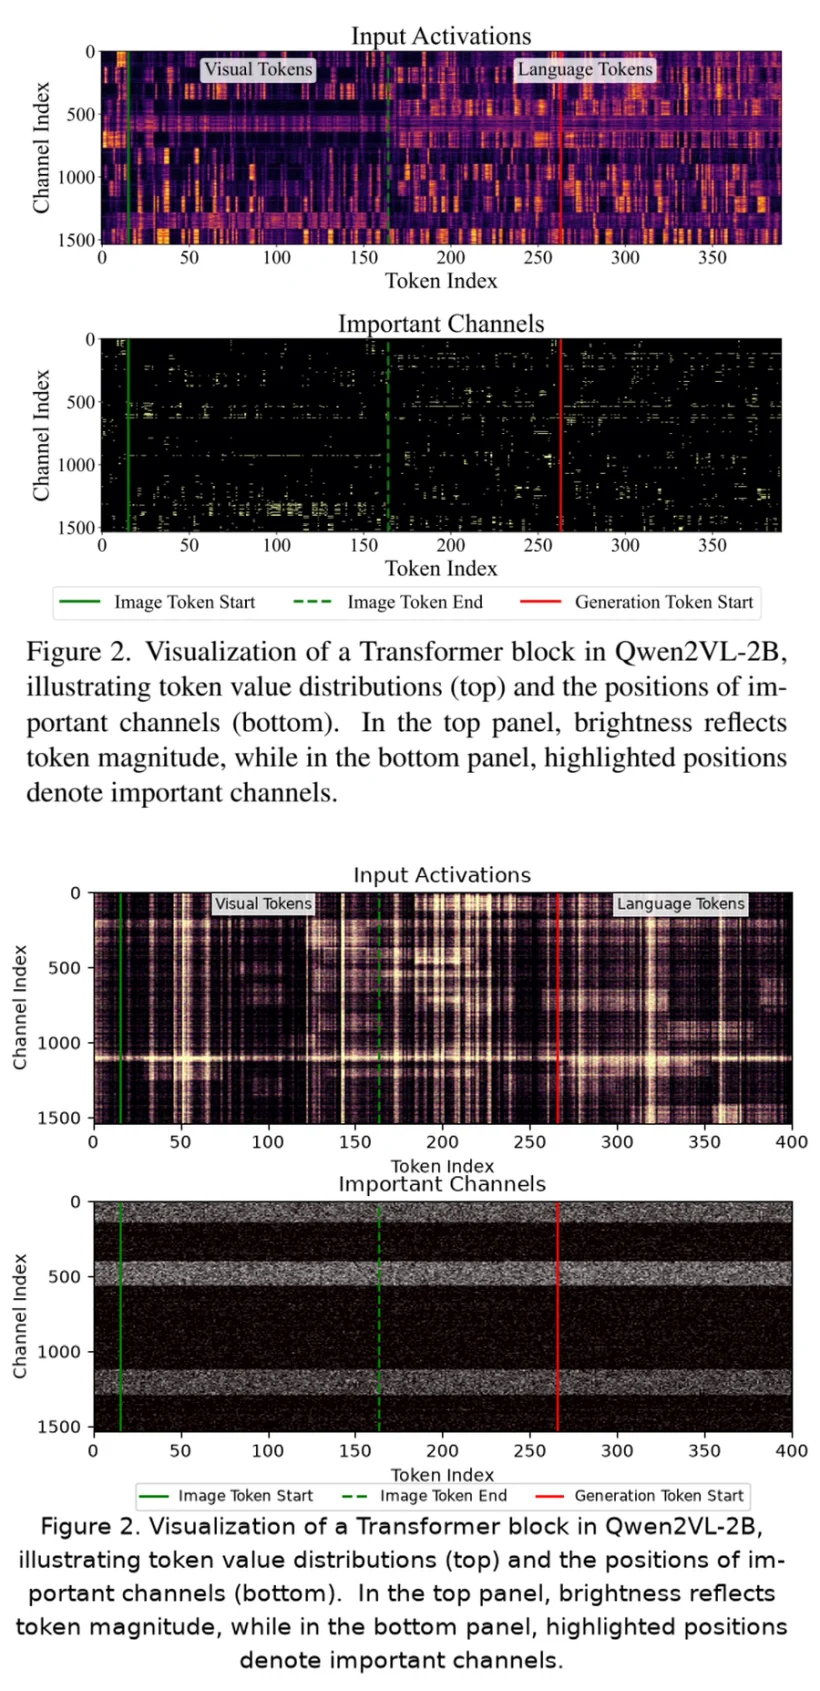
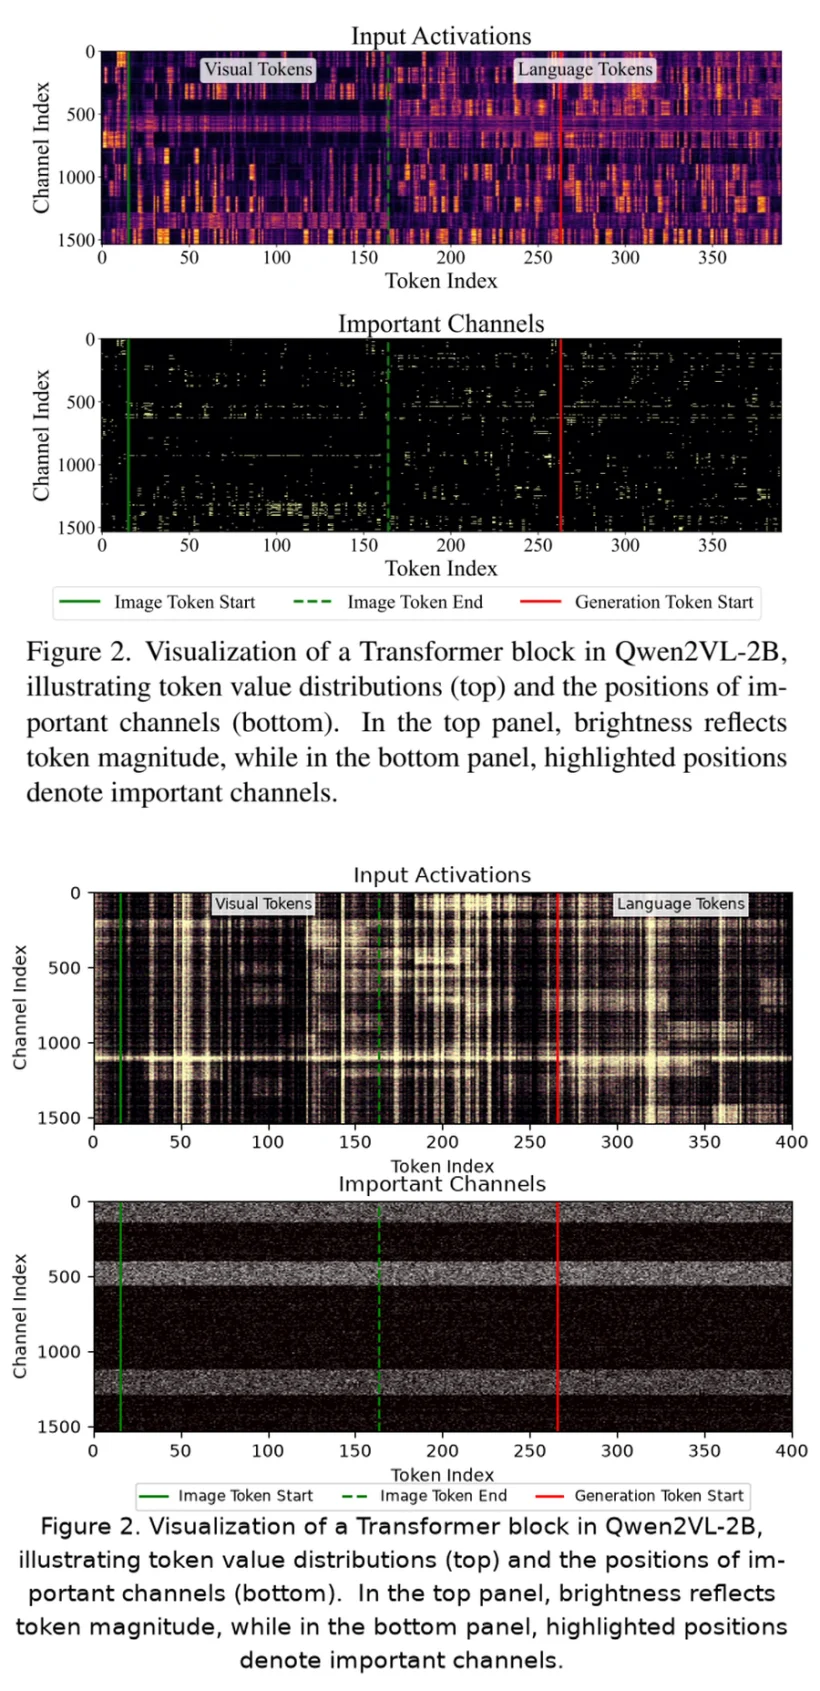
improve(replicas): 第四十七轮 —— 09 高光饱和 + 指标归因
分区测量：
  原图 整图 0.459 / 上图 0.520 / 下图 0.416
  我的 整图 0.539 / 上图 0.609 / 下图 0.514

根因分析：magma 色表最亮端是 #FCFDBF（RGB 最小值 191），
在 ink 阈值 245 下**永远算作墨迹**，所以用 magma 的图 ink 天然偏高；
原图顶部的近纯白高光说明它可能用了不同色表或额外的高光叠加。

这个指标对 09 不再有指导意义，改为视觉判断：
色调分布已对齐（暗 0.41/0.41、亮 0.46/0.51、均值 141/151），
下图白点带也已对齐。

本轮调整：vmin/vmax 66%/82% 分位（高光更多饱和）

diff --git a/tools/figlab/replicas.py b/tools/figlab/replicas.py
@@ -580,7 +580,7 @@ def fig09():
     act_disp = act_disp ** 0.42
     ax.imshow(act_disp, aspect="auto", cmap="magma", origin="upper",
               extent=[0, n_tok, n_ch, 0],
-              vmin=np.percentile(act_disp, 62), vmax=np.percentile(act_disp, 90))
+              vmin=np.percentile(act_disp, 66), vmax=np.percentile(act_disp, 82))
     ax.set_title("Input Activations", fontsize=12)
     ax.set_ylabel("Channel Index", fontsize=10)
     ax.set_xlabel("Token Index", fontsize=10)
